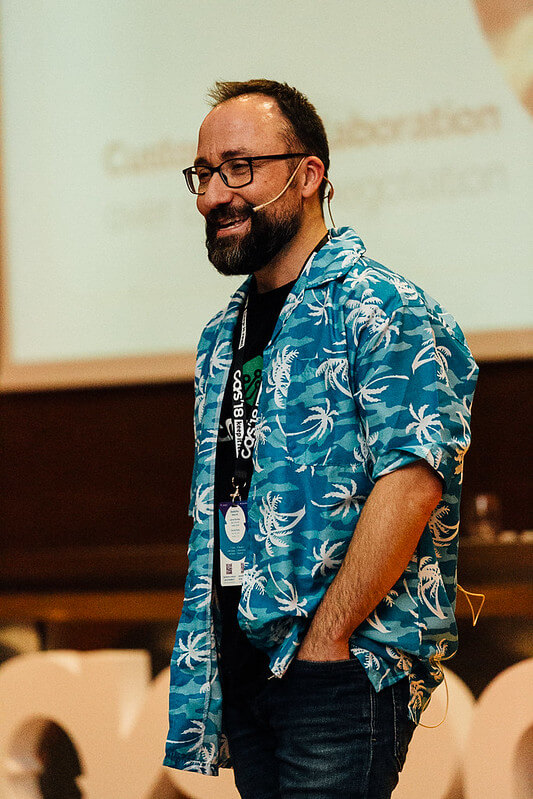
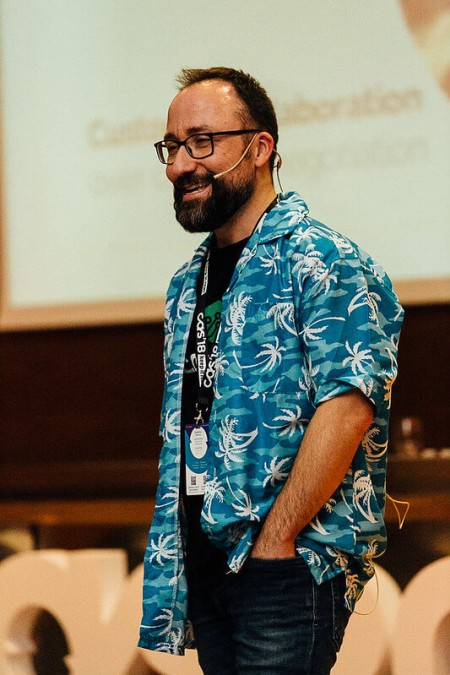
Reduce size of some images

diff --git a/_posts/2019-05-20-cas-2019-una-vida-aprendiendo-agile.md b/_posts/2019-05-20-cas-2019-una-vida-aprendiendo-agile.md
@@ -37,7 +37,7 @@ La charla me gustó cómo quedó y cómo la expuse, me sentí muy cómodo en el 
 Y como no es muy habitual tener ya el trabajo hecho, ya que tenía tiempo, pedí feedback a algunos amigos. Entre los que me contestaron estaba [José Manuel Beas](https://jmbeas.es/), para el que [dar un feedback trabajado es norma](https://twitter.com/bberrycarmen/status/1119561541702103040), me comentó que podría darle la estructura del [Viaje del Héroe](https://es.wikipedia.org/wiki/Monomito).
 
 <div style="display: table; margin: 0 auto;">
-  <img src="/assets/post-una-vida-monomito-900.png"  alt="Diagrama del Viaje del Héroe">
+  <img src="/assets/post-una-vida-monomito-450.png"  alt="Diagrama del Viaje del Héroe">
 </div>
 
 Y efectivamente estudiando sobre ella encajaba como un guante. Así que reordené algunos eventos y reforcé algo la épica y el drama en ciertos momentos de la historia para que fuera mucho más atractiva.
@@ -97,10 +97,5 @@ Más sobre el Monomito o El viaje del héroe contado por Juan Gómez-Jurado: [TO
 <div style="display: table; margin: 0 auto;">
   <img src="/assets/post-una-vida-oficial3.jpg" alt="Primer plano de Toño de la Torre dando la charla">
 </div>
-
-
 *Todos los derechos reservados por [conferenciaagilespain](https://www.flickr.com/photos/167768694@N04/46356687692/in/album-72157701587805742/)*
-
-
-
 
